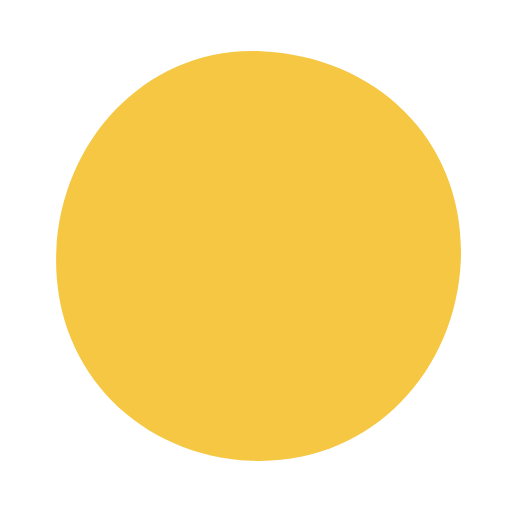
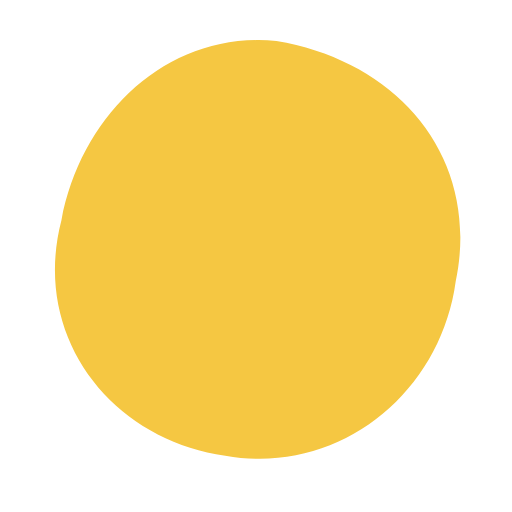
More uneven hand-cut brand shapes

diff --git a/v2/index.html b/v2/index.html
@@ -103,9 +103,9 @@
           </h1>
           <p class="hello__lead" data-reveal="2">In-home naturalistic therapy, taught through music, paint, dance, theater, and whatever creative channels your child desires.</p>
           <ul class="badges" data-reveal="3">
-            <li><img class="shp" src="../assets/img/shapes/arch.svg?v=2" alt="" aria-hidden="true"><span>In your home</span></li>
-            <li><img class="shp" src="../assets/img/shapes/circle.svg?v=2" alt="" aria-hidden="true"><span>BCBA-led</span></li>
-            <li><img class="shp" src="../assets/img/shapes/triangle.svg?v=2" alt="" aria-hidden="true"><span>Dallas, Austin, and rural Texas</span></li>
+            <li><img class="shp" src="../assets/img/shapes/arch.svg?v=3" alt="" aria-hidden="true"><span>In your home</span></li>
+            <li><img class="shp" src="../assets/img/shapes/circle.svg?v=3" alt="" aria-hidden="true"><span>BCBA-led</span></li>
+            <li><img class="shp" src="../assets/img/shapes/triangle.svg?v=3" alt="" aria-hidden="true"><span>Dallas, Austin, and rural Texas</span></li>
           </ul>
           <div class="btns" data-reveal="4">
             <a class="paper-btn" href="#contact" data-magnetic data-jump="contact" data-cta="wave" data-eyes><span>Talk to us</span></a>
@@ -194,9 +194,9 @@
           <h2 data-reveal="2">Your child leads. We teach.</h2>
         </header>
         <ol class="path">
-          <li data-reveal><img class="path__shp" src="../assets/img/shapes/arch.svg?v=2" alt="" aria-hidden="true"><span class="path__n">01</span><strong>Your child picks</strong><span>The drum, the paint, the puppet, the trains.</span></li>
-          <li data-reveal="2"><img class="path__shp" src="../assets/img/shapes/circle.svg?v=2" alt="" aria-hidden="true"><span class="path__n">02</span><strong>We weave in the goals</strong><span>A BCBA builds each goal into the game.</span></li>
-          <li data-reveal="3"><img class="path__shp" src="../assets/img/shapes/triangle.svg?v=2" alt="" aria-hidden="true"><span class="path__n">03</span><strong>You see it grow</strong><span>Progress you can see, at home and at the dinner table.</span></li>
+          <li data-reveal><img class="path__shp" src="../assets/img/shapes/arch.svg?v=3" alt="" aria-hidden="true"><span class="path__n">01</span><strong>Your child picks</strong><span>The drum, the paint, the puppet, the trains.</span></li>
+          <li data-reveal="2"><img class="path__shp" src="../assets/img/shapes/circle.svg?v=3" alt="" aria-hidden="true"><span class="path__n">02</span><strong>We weave in the goals</strong><span>A BCBA builds each goal into the game.</span></li>
+          <li data-reveal="3"><img class="path__shp" src="../assets/img/shapes/triangle.svg?v=3" alt="" aria-hidden="true"><span class="path__n">03</span><strong>You see it grow</strong><span>Progress you can see, at home and at the dinner table.</span></li>
         </ol>
       </div>
     </section>
@@ -214,9 +214,9 @@
           <h2 data-reveal="2">Once a month, we take learning out into the world.</h2>
           <p data-reveal="2">Kids get together, try something new, and practice social skills in real places, with our RBTs right there to support them.</p>
           <ul class="rows">
-            <li><button class="row" data-detail="tpl-out-1" data-cursor="Open" data-reveal><img class="shp row__shp" src="../assets/img/shapes/arch.svg?v=2" alt="" aria-hidden="true"><strong>Artist-led workshops</strong><span class="row__go">→</span></button></li>
-            <li><button class="row" data-detail="tpl-out-2" data-cursor="Open" data-reveal="2"><img class="shp row__shp" src="../assets/img/shapes/circle.svg?v=2" alt="" aria-hidden="true"><strong>Field trips</strong><span class="row__go">→</span></button></li>
-            <li><button class="row" data-detail="tpl-out-3" data-cursor="Open" data-reveal="3"><img class="shp row__shp" src="../assets/img/shapes/triangle.svg?v=2" alt="" aria-hidden="true"><strong>Open house for new families</strong><span class="row__go">→</span></button></li>
+            <li><button class="row" data-detail="tpl-out-1" data-cursor="Open" data-reveal><img class="shp row__shp" src="../assets/img/shapes/arch.svg?v=3" alt="" aria-hidden="true"><strong>Artist-led workshops</strong><span class="row__go">→</span></button></li>
+            <li><button class="row" data-detail="tpl-out-2" data-cursor="Open" data-reveal="2"><img class="shp row__shp" src="../assets/img/shapes/circle.svg?v=3" alt="" aria-hidden="true"><strong>Field trips</strong><span class="row__go">→</span></button></li>
+            <li><button class="row" data-detail="tpl-out-3" data-cursor="Open" data-reveal="3"><img class="shp row__shp" src="../assets/img/shapes/triangle.svg?v=3" alt="" aria-hidden="true"><strong>Open house for new families</strong><span class="row__go">→</span></button></li>
           </ul>
           <div class="glass-card" data-reveal>
             <p class="glass-card__label">Next up</p>
@@ -272,7 +272,7 @@
       <h2 data-reveal="2">Support in the places a child knows.</h2>
       <div class="places">
         <button class="place place--big" data-detail="tpl-dallas" data-cursor="Open" data-reveal>
-          <img class="place__shape" src="../assets/img/shapes/circle.svg?v=2" alt="" aria-hidden="true">
+          <img class="place__shape" src="../assets/img/shapes/circle.svg?v=3" alt="" aria-hidden="true">
           <span class="place__name">Dallas</span>
           <span class="place__text">Our home base. In-home ABA across the Dallas area.</span>
         </button>

diff --git a/index.html b/index.html
@@ -71,9 +71,9 @@
         <h1>ABA in every <span class="c-orange">color</span>, <span class="c-pink">beat</span>, and <span class="hl">shape.</span></h1>
         <p class="lead">In-home naturalistic therapy, taught through music, paint, dance, theater, and whatever creative channels your child desires.</p>
         <ul class="badges">
-          <li><img class="shp" src="assets/img/shapes/arch.svg?v=2" alt="" aria-hidden="true"><span>In your home</span></li>
-          <li><img class="shp" src="assets/img/shapes/circle.svg?v=2" alt="" aria-hidden="true"><span>BCBA-led</span></li>
-          <li><img class="shp" src="assets/img/shapes/triangle.svg?v=2" alt="" aria-hidden="true"><span>Dallas, Austin, and rural Texas</span></li>
+          <li><img class="shp" src="assets/img/shapes/arch.svg?v=3" alt="" aria-hidden="true"><span>In your home</span></li>
+          <li><img class="shp" src="assets/img/shapes/circle.svg?v=3" alt="" aria-hidden="true"><span>BCBA-led</span></li>
+          <li><img class="shp" src="assets/img/shapes/triangle.svg?v=3" alt="" aria-hidden="true"><span>Dallas, Austin, and rural Texas</span></li>
         </ul>
         <div class="btn-row">
           <a class="paper-btn" href="#contact" data-cta="wave" data-eyes><span>Talk to us</span></a>
@@ -186,21 +186,21 @@
         <p class="lead">Kids get together, try something new, and practice social skills in real places, with our RBTs right there to support them.</p>
         <ul class="outings">
           <li class="outing">
-            <img class="shp outing__shp" src="assets/img/shapes/arch.svg?v=2" alt="" aria-hidden="true">
+            <img class="shp outing__shp" src="assets/img/shapes/arch.svg?v=3" alt="" aria-hidden="true">
             <div>
               <h3>Artist-led workshops</h3>
               <p>Local artists host hands-on sessions in painting, making, and building.</p>
             </div>
           </li>
           <li class="outing">
-            <img class="shp outing__shp" src="assets/img/shapes/circle.svg?v=2" alt="" aria-hidden="true">
+            <img class="shp outing__shp" src="assets/img/shapes/circle.svg?v=3" alt="" aria-hidden="true">
             <div>
               <h3>Field trips</h3>
               <p>Dance studios, museums, and other places around town, explored together.</p>
             </div>
           </li>
           <li class="outing">
-            <img class="shp outing__shp" src="assets/img/shapes/triangle.svg?v=2" alt="" aria-hidden="true">
+            <img class="shp outing__shp" src="assets/img/shapes/triangle.svg?v=3" alt="" aria-hidden="true">
             <div>
               <h3>Open house for new families</h3>
               <p>Curious about our program? Come meet the team and see how we work.</p>
@@ -316,19 +316,19 @@
       <h2>Support in the places a child knows.</h2>
       <div class="places">
         <div class="place">
-          <img class="shp place__shp" src="assets/img/shapes/circle.svg?v=2" alt="" aria-hidden="true">
+          <img class="shp place__shp" src="assets/img/shapes/circle.svg?v=3" alt="" aria-hidden="true">
           <h3>Dallas</h3>
           <p>In-home ABA across the Dallas area.</p>
           <p class="todo small">List the cities or ZIP codes you cover.</p>
         </div>
         <div class="place">
-          <img class="shp place__shp" src="assets/img/shapes/triangle.svg?v=2" alt="" aria-hidden="true">
+          <img class="shp place__shp" src="assets/img/shapes/triangle.svg?v=3" alt="" aria-hidden="true">
           <h3>Austin</h3>
           <p>In-home ABA across the Austin area.</p>
           <p class="todo small">List the cities or ZIP codes you cover.</p>
         </div>
         <div class="place">
-          <img class="shp place__shp" src="assets/img/shapes/square.svg?v=2" alt="" aria-hidden="true">
+          <img class="shp place__shp" src="assets/img/shapes/square.svg?v=3" alt="" aria-hidden="true">
           <h3>Telehealth</h3>
           <p>Support for families in rural Texas, wherever they are.</p>
           <p class="todo small">Describe what telehealth support includes.</p>
